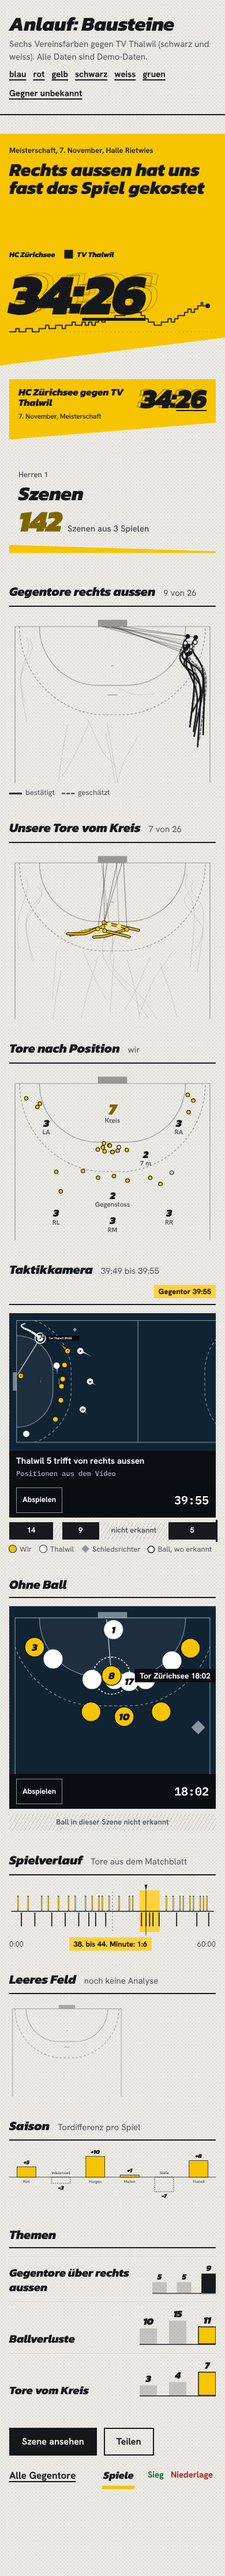
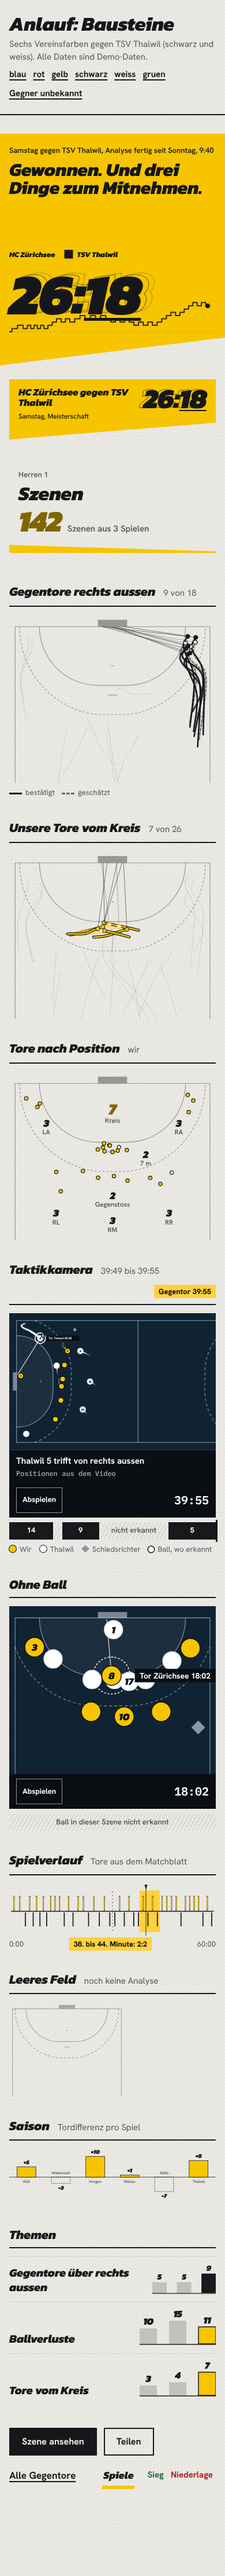
Camera clash only for the same colour family, demo match 26:18
- lib/color.ts: on the tactics camera the opponents become grey rings only when both teams
  are of the same colour family (hue within 45 degrees, or two greys) and of a similar
  lightness (below 2.5:1). Similar lightness alone, as with blue against red, is no clash:
  own dots are filled, the opponent's are rings. Tests for red against blue (both ways),
  red against orange, white against white and blue against light blue. ANLAUF.md updated.
- Demo data of /dev/anlauf: the match of SPEC.md section 10, HC Zürichsee against TSV
  Thalwil 26:18 (13:9), goal sequence from the report's Torfolge; the phase tag is counted
  from the data.
- OPEN_QUESTIONS: Q-UX-7 describes the Anlauf clash rule, Q-UX-14 the open dark scheme.
- Screens docs/screens/anlauf renewed.

Claude-Session: https://claude.ai/code/session_01H3gogAyqS8WiNWhNtD9sQ7

diff --git a/apps/web/src/app/dev/anlauf/page.tsx b/apps/web/src/app/dev/anlauf/page.tsx
@@ -7,7 +7,7 @@ import { DiffBars, Rail, Series } from "@/components/anlauf/charts";
 import { PageHead, Strip, WurfHead } from "@/components/anlauf/heads";
 import { TacticsCamera } from "@/components/anlauf/tactics-camera";
 import { Button } from "@/components/ui/button";
-import { DEMO_GOALS, DEMO_PHASE, DEMO_REPORT, DEMO_SCENE_KR, DEMO_SCENE_RA, DEMO_SEASON } from "@/lib/anlauf-demo";
+import { DEMO_GOALS, DEMO_PHASE, DEMO_REPORT, DEMO_RESULT, DEMO_SCENE_KR, DEMO_SCENE_RA, DEMO_SEASON } from "@/lib/anlauf-demo";
 import { CHECK_KITS, CHECK_OPPONENT, kit, kitVars } from "@/lib/color";
 
 export const metadata: Metadata = { title: "Anlauf", robots: { index: false } };
@@ -30,12 +30,14 @@ export default async function AnlaufPage({ searchParams }: { searchParams: Promi
   const { club, opp } = await searchParams;
   const names = (Object.keys(CHECK_KITS) as (keyof typeof CHECK_KITS)[]).filter((n) => !club || n === club);
   const against = opp === "unknown" ? null : CHECK_OPPONENT;
+  const inPhase = DEMO_REPORT.filter((g) => g.minute >= DEMO_PHASE[0] && g.minute <= DEMO_PHASE[1]);
+  const phaseText = `${DEMO_PHASE[0]}. bis ${DEMO_PHASE[1]}. Minute: ${inPhase.filter((g) => g.team === "own").length}:${inPhase.filter((g) => g.team === "opp").length}`;
   return (
     <main className="mx-auto max-w-[1280px] pb-24">
       <div className="px-4 py-6 md:px-8">
         <h1 className="text-[34px]">Anlauf: Bausteine</h1>
         <p className="mt-2 text-[15px] text-ink-2">
-          Sechs Vereinsfarben gegen TV Thalwil (schwarz und weiss){against ? "" : ", Gegner hier ohne bekannte Farbe"}. Alle Daten sind Demo-Daten.
+          Sechs Vereinsfarben gegen TSV Thalwil (schwarz und weiss){against ? "" : ", Gegner hier ohne bekannte Farbe"}. Alle Daten sind Demo-Daten.
         </p>
         <p className="mt-2 flex flex-wrap gap-3 text-[15px]">
           {Object.keys(CHECK_KITS).map((n) => (
@@ -53,23 +55,23 @@ export default async function AnlaufPage({ searchParams }: { searchParams: Promi
         return (
           <section key={n} data-club={n} style={kitVars(k) as CSSProperties} className="border-t-2 border-ink pt-8 pb-14" aria-label={`Verein ${n}`}>
             <WurfHead
-              kick="Meisterschaft, 7. November, Halle Rietwies"
-              title={<>Rechts aussen hat uns fast das Spiel gekostet</>}
-              own={34}
-              opp={26}
+              kick="Samstag gegen TSV Thalwil, Analyse fertig seit Sonntag, 9:40"
+              title="Gewonnen. Und drei Dinge zum Mitnehmen."
+              own={DEMO_RESULT.own}
+              opp={DEMO_RESULT.opp}
               ownName="HC Zürichsee"
-              oppName="TV Thalwil"
+              oppName="TSV Thalwil"
               goals={DEMO_REPORT}
               flightLabels={{ half: "Halbzeit {v}", end: "Schluss {v}" }}
             />
             <div className="mt-6 grid gap-8 px-4 md:grid-cols-2 md:px-8">
-              <Strip name="HC Zürichsee gegen TV Thalwil" sub="7. November, Meisterschaft" own={34} opp={26} />
+              <Strip name="HC Zürichsee gegen TSV Thalwil" sub="Samstag, Meisterschaft" own={DEMO_RESULT.own} opp={DEMO_RESULT.opp} />
               <PageHead kick="Herren 1" title="Szenen" figure={142} figureLabel="Szenen aus 3 Spielen" />
             </div>
 
             <div className="mt-8 grid gap-10 px-4 md:grid-cols-3 md:px-8">
               <div>
-                <SectionHead title="Gegentore rechts aussen" note="9 von 26" />
+                <SectionHead title="Gegentore rechts aussen" note="9 von 18" />
                 <Bundle goals={DEMO_GOALS.them.filter((g) => g.zone === "ra")} rest={DEMO_GOALS.them.filter((g) => g.zone !== "ra")} width={360} play label="Anläufe der Gegentore über rechts aussen" />
                 <LineKey
                   className="mt-2"
@@ -112,7 +114,7 @@ export default async function AnlaufPage({ searchParams }: { searchParams: Promi
                 <p className="mt-1 flex justify-between text-[13px] text-ink-2">
                   <span>0:00</span>
                   <span>
-                    <AttnTag>38. bis 44. Minute: 1:6</AttnTag>
+                    <AttnTag>{phaseText}</AttnTag>
                   </span>
                   <span>60:00</span>
                 </p>

diff --git a/apps/web/src/lib/anlauf-demo.ts b/apps/web/src/lib/anlauf-demo.ts
@@ -92,14 +92,37 @@ export const DEMO_GOALS = {
   themFastBreaks: goals(53, "opp", { gs: 6 }, 2),
 };
 
-/** goal difference minute by minute of the Thalwil match, as the report delivers it */
-const FLOW: [number, number][] = [
-  [0, 0], [2, 1], [3, 0], [5, 1], [7, 0], [9, 1], [11, 2], [12, 1], [14, 2], [16, 1], [17, 2], [19, 3], [20, 2], [22, 3], [23, 2], [24, 3], [25, 2], [26, 3], [27, 4], [28, 3], [29, 4],
-  [32, 5], [35, 6], [36, 7], [38.6, 6], [39.9, 5], [41, 4], [42, 3], [43.8, 2], [46, 3], [48, 4], [49, 3], [50, 4], [51, 5], [53, 6], [54, 7], [55, 6], [56, 7], [57, 8], [58, 9], [58.5, 8],
+/**
+ * The demo match of SPEC.md section 10: HC Zürichsee against TSV Thalwil 26:18 (13:9), with the
+ * goal sequence of the report (Torfolge 2:1, 5:4, 9:6, 13:9; 15:12, 17:15, 21:16, 26:18).
+ */
+export const DEMO_RESULT = { own: 26, opp: 18, halftime: [13, 9] } as const;
+
+const SEQUENCE: [minute: number, own: number, opp: number][] = [
+  [0, 0, 0], [5, 2, 1], [11, 5, 4], [19, 9, 6], [30, 13, 9], [37, 15, 12], [44, 17, 15], [51, 21, 16], [60, 26, 18],
 ];
 
-/** report.goals[] of the demo match: one goal per step of the difference */
-export const DEMO_REPORT: ReportGoal[] = FLOW.slice(1).map((p, i) => ({ minute: p[0], team: p[1] > FLOW[i]![1] ? "own" : "opp" }));
+/** report.goals[]: the goals between two marks of the sequence, spread evenly, ours first */
+function reportOf(seq: typeof SEQUENCE): ReportGoal[] {
+  const out: ReportGoal[] = [];
+  for (let i = 1; i < seq.length; i++) {
+    const [m0, o0, t0] = seq[i - 1]!;
+    const [m1, o1, t1] = seq[i]!;
+    const n = o1 - o0 + (t1 - t0);
+    let own = o1 - o0;
+    let opp = t1 - t0;
+    for (let j = 0; j < n; j++) {
+      // keep the running share: ours when we are behind our share of this stretch
+      const team: ReportGoal["team"] = opp === 0 || (own > 0 && own / (own + opp) >= 0.5) ? "own" : "opp";
+      if (team === "own") own--;
+      else opp--;
+      out.push({ minute: Math.round((m0 + ((m1 - m0) * (j + 0.5)) / n) * 10) / 10, team });
+    }
+  }
+  return out;
+}
+
+export const DEMO_REPORT: ReportGoal[] = reportOf(SEQUENCE);
 
 export const DEMO_PHASE: [number, number] = [38, 44];
 

diff --git a/apps/web/src/lib/color.test.ts b/apps/web/src/lib/color.test.ts
@@ -64,13 +64,31 @@ describe("kit: opponent", () => {
     expect(kit(CHECK_KITS.schwarz, ["#17191c", "#ffffff"])).toMatchObject({ opp: "#ffffff", oppSource: "second" });
   });
 
-  it("steps back to grey rings when both teams would look alike on the court", () => {
-    // blue against red: different hues on the cloth, but the same lightness on the dark court
-    const k = kit(CHECK_KITS.blau, ["#d3202e", "#ffffff"]);
-    expect(k.opp).toBe("#d3202e");
-    expect(k.camClash).toBe(true);
-    expect(k.oppCam).toBe(COURT);
-    expect(k.oppCamEdge).toBe("#a3aeb8");
+  it("red against blue is no clash on the court: the hues differ, only the lightness is alike", () => {
+    for (const [club, opp] of [
+      [CHECK_KITS.blau, ["#d3202e", "#ffffff"]],
+      [CHECK_KITS.rot, ["#1f4fd6", "#ffffff"]],
+    ] as const) {
+      const k = kit(club, opp);
+      expect(k.camClash).toBe(false);
+      expect(k.oppCam).toBe(opp[0]);
+    }
+  });
+
+  it("steps back to grey rings only for the same colour family and a similar lightness", () => {
+    // red against orange
+    const ro = kit(CHECK_KITS.rot, ["#e2731c", "#e2731c"]);
+    expect(ro.oppSource).toBe("ink");
+    // the opponent is ink on the cloth; on the court ink falls back to orange: same family as red
+    expect(ro.camClash).toBe(true);
+    expect(ro.oppCam).toBe(COURT);
+    expect(ro.oppCamEdge).toBe("#a3aeb8");
+    // white against white: the opponent plays its second colour on the cloth, white again on the court
+    const ww = kit(CHECK_KITS.weiss, ["#ffffff", "#17191c"]);
+    expect(ww.opp).toBe("#17191c");
+    expect(ww.camClash).toBe(true);
+    // same family, clearly different lightness: no clash (blue against light blue)
+    expect(kit(CHECK_KITS.blau, ["#7fb2ff", "#7fb2ff"]).camClash).toBe(false);
   });
 
   it("near(): hue and greys", () => {

diff --git a/apps/web/src/lib/color.ts b/apps/web/src/lib/color.ts
@@ -62,6 +62,8 @@ export const OPPONENT_UNKNOWN = "#646b73";
 /** the unknown opponent next to a black club, which would swallow the grey */
 export const OPPONENT_UNKNOWN_ON_BLACK = "#8b9198";
 export const DEFAULT_CLUB = "#1f4fd6";
+/** below this contrast two colours of the same family read as the same team on the court */
+export const CAM_SAME_LIGHTNESS = 2.5;
 
 /** The six club colours every screen is checked with (SPEC.md), first and second colour. */
 export const CHECK_KITS = {
@@ -203,7 +205,10 @@ export function kit(
   // tactics camera: a colour that vanishes on the dark court plays in its second colour
   const cc = contrastRatio(c[0], COURT) >= 2.2 ? c[0] : c[1];
   const ocam = contrastRatio(o, COURT) >= 2.2 ? o : o2;
-  const camClash = known && (contrastRatio(cc, ocam) < 1.6 || near(cc, ocam));
+  // two teams must never look alike on the court: only the same colour family AND a similar
+  // lightness clash (blue against navy, red against orange, white against white). Blue against
+  // red does not: own dots are filled, the opponent's are rings, and the hues differ.
+  const camClash = known && near(cc, ocam) && contrastRatio(cc, ocam) < CAM_SAME_LIGHTNESS;
   const ring = !known || camClash;
   return {
     ground,

diff --git a/docs/OPEN_QUESTIONS.md b/docs/OPEN_QUESTIONS.md
@@ -209,9 +209,11 @@ The app uses the new colours; Archivo is not yet bundled in the Expo build (syst
   colour only when somebody picked it; a match created through the API with an explicit
   `kit_opponent` counts as said. *Assumption:* that is the meaning of "aus den Trikotfarben des
   Spiels".
-- **Q-UX-7 Clash rule.** "Same hue family and similar lightness" is implemented with the
-  measure of the existing kit warnings (CIE76 delta E < 25). *Assumption:* good enough; tune with
-  real kits.
+- **Q-UX-7 Clash rule.** Since the Anlauf look (lib/color.ts `kit()`, ANLAUF.md): on the cloth
+  the opponent changes to its second colour (then ink) when its hue is within 45 degrees of
+  ours, or both are greys of similar lightness. On the tactics camera the opponents become grey
+  rings only for the same colour family and a similar lightness (below 2.5:1); blue against red
+  keeps both colours. *Assumption:* thresholds good enough; tune with real kits.
 - **Q-UX-8 Goals conceded by position.** Positions come from the shot zones (wings, backs incl.
   half distance, circle); 7 m, fast breaks, empty goal and long range have none.
 - **Q-UX-9 Season themes.** A theme repeats in at least two matches with video; positions count
@@ -225,3 +227,7 @@ The app uses the new colours; Archivo is not yet bundled in the Expo build (syst
   mitnehmen" (invites players, which is behind Teamfunktionen now) are left for phase 2.
 - **Q-UX-13 Share a single scene.** The API and the shared page support it; a share button per
   scene comes with the Video tab in phase 2.
+- **Q-UX-14 Dark scheme.** The Anlauf look has one light scheme (the cloth is the identity); the
+  theme switch in the account menu was removed and the `hb_theme` cookie is ignored. Open: whether
+  a dark scheme comes back (e.g. for the hall at night), and how the club colour and the cloth
+  would work on it.

diff --git a/docs/design/ux-reset/ANLAUF.md b/docs/design/ux-reset/ANLAUF.md
@@ -48,8 +48,11 @@ Two tests for every element:
 - **Clash rule on the ground:** if the opponent's hue is within 45 degrees of the club's (or both
   are greys of similar lightness), the opponent shows its second colour; if that clashes too, ink.
 - **Clash rule on the court:** a colour below 2.2:1 on the court `#0f2333` plays in its second
-  colour (a black club shows white dots). If the two teams are then still alike (below 1.6:1 or
-  near hue), the opponents become grey rings with a light edge. The legend says so.
+  colour (a black club shows white dots). If the two teams are then still alike, the opponents
+  become grey rings with a light edge; the legend says so. Alike means the same colour family
+  (hue within 45 degrees, or two greys) **and** a similar lightness (below 2.5:1): blue against
+  navy, red against orange, white against white. Similar lightness alone is no clash: blue
+  against red, the most common pairing, keeps both colours (own dots filled, opponents rings).
 - Test with the six club colours blue, red, yellow, black, white, green (switch in the Zielbild)
   and an unknown opponent.
 
